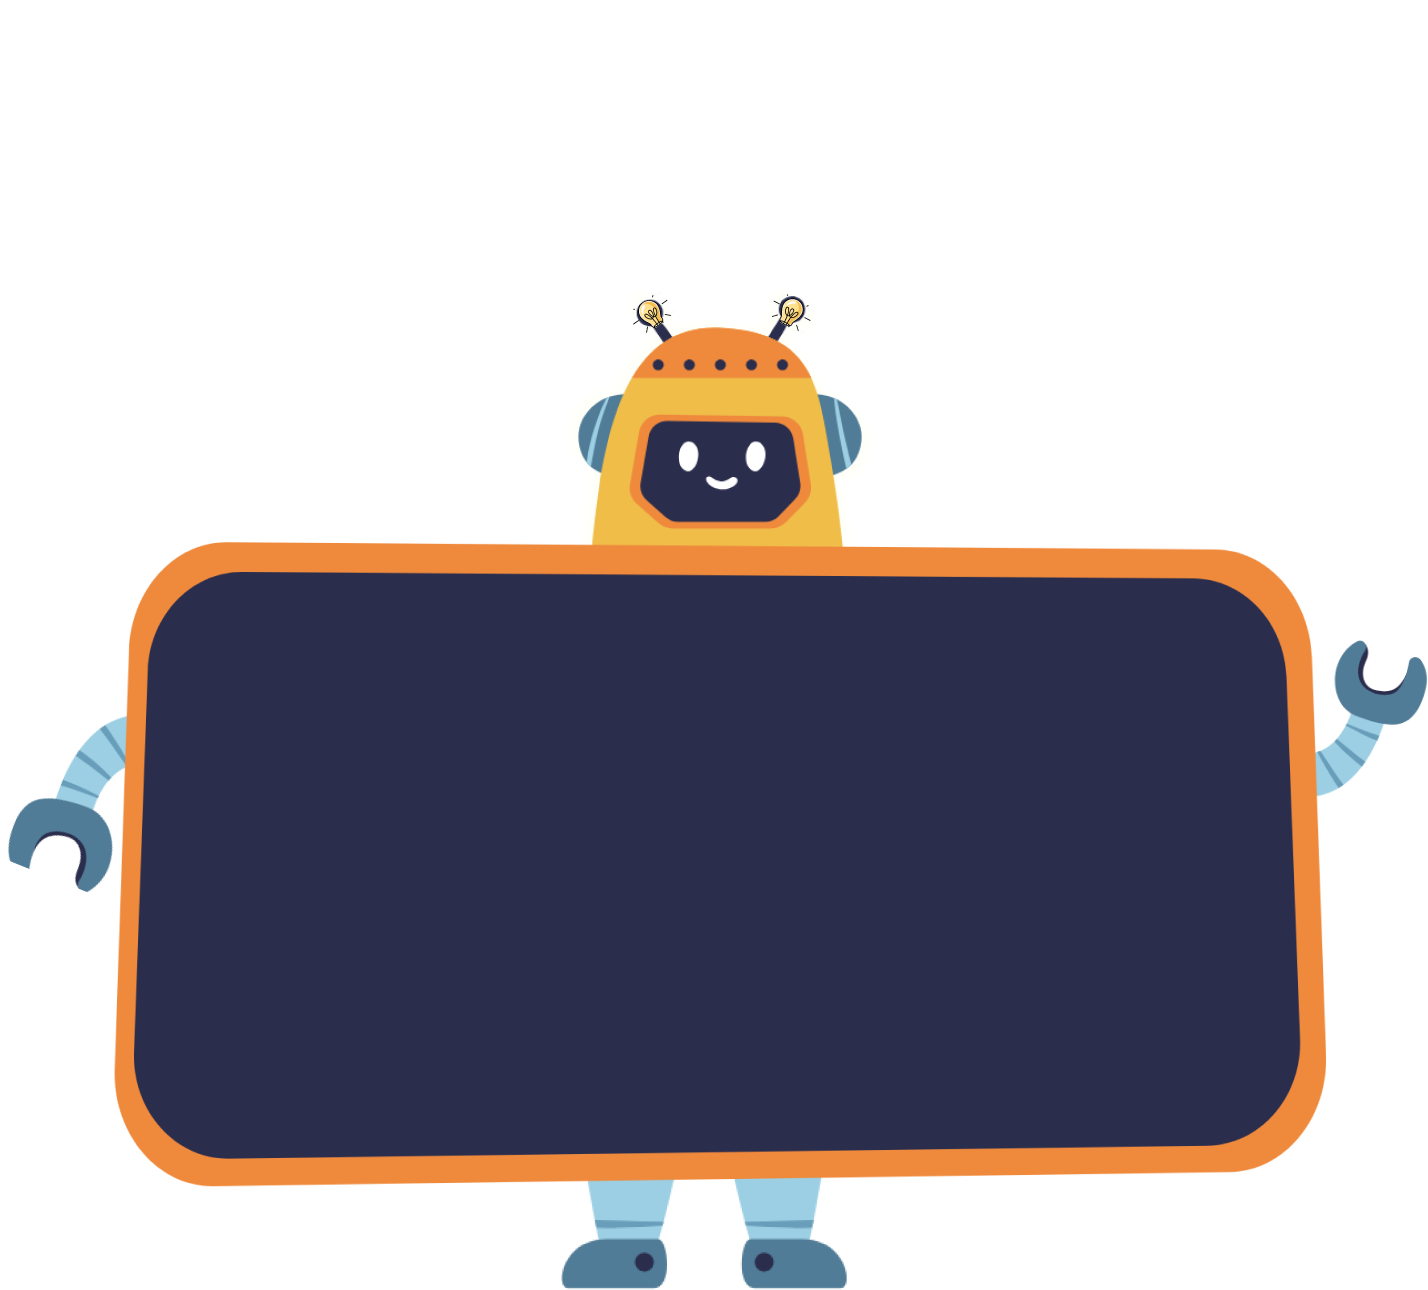
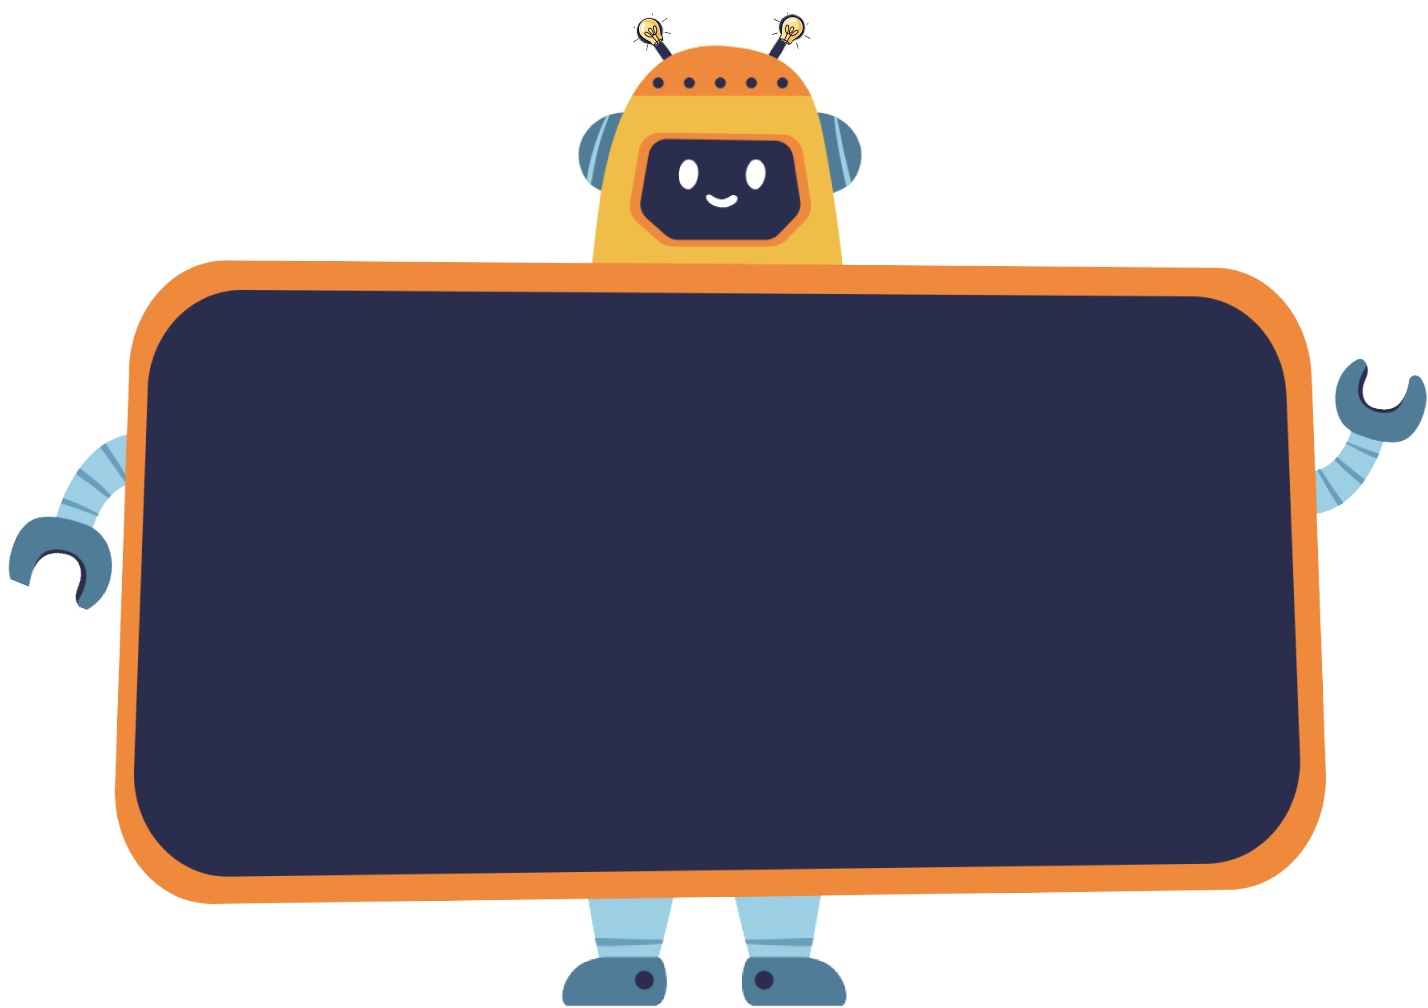
feat: Chatbot funcionando Fix: funções do langflow para trazer a resposta do bot Style: stilizando chat

Changed region(s): [[0.0, 0.0, 1.0, 0.7073], [0.0616, 0.7996, 0.9552, 1.0]]

diff --git a/TCC/src/pages/Chatbot/chat.js b/TCC/src/pages/Chatbot/chat.js
@@ -4,11 +4,53 @@ import Lampada from './elements/lampada.png'
 import Robochat from './elements/robozinho.png'
 import { useEffect, useState } from 'react'
 import RobochatLamp from './elements/Robô.png'
+import { RespostaChat } from '../../services/apichatbot'
+
 
 
 export default function Chatbot(){
 
     const [darkMode,setDarkMode] = useState(false)
+    const [inputMessage, setInputMessage] = useState('')
+    const [chatMessages, setChatMessages] = useState([])
+    const refresh = [
+      <svg xmlns="http://www.w3.org/2000/svg" width="16" height="16" fill="currentColor" class="bi bi-arrow-clockwise" viewBox="0 0 16 16">
+        <path fill-rule="evenodd" d="M8 3a5 5 0 1 0 4.546 2.914.5.5 0 0 1 .908-.417A6 6 0 1 1 8 2z"/>
+        <path d="M8 4.466V.534a.25.25 0 0 1 .41-.192l2.36 1.966c.12.1.12.284 0 .384L8.41 4.658A.25.25 0 0 1 8 4.466"/>
+      </svg>
+    ]
+    
+
+    const InteracaoChat = async () => {
+        if (!inputMessage.trim()) {
+            console.log('Entrada vazia')
+            return "Digite algo para o chat-bot ler!"
+        }
+
+        console.log("Mensagem Usuario: " + inputMessage)
+
+        const newMessage = { sender:'user', message: inputMessage}
+        setChatMessages([...chatMessages, newMessage])
+
+        try{
+            const data = await RespostaChat(inputMessage)
+            console.log("Mensagem Chatbot: ", data)
+            const MensagemBot = data.outputs[0].outputs[0].artifacts.message || 'Desculpe, não entendi sua pergunta. Tente novamente'
+            const HistoricoChat = { sender:'chatbot', message: MensagemBot}
+            setChatMessages((prevMessages) => [...prevMessages, HistoricoChat])
+        } catch(err){
+            console.error('Erro na resposta da API: ', err)
+            console.log(err)
+            const MensagemErro = {sender:'chatbot', message: 'Erro ao se comunicar com o servidor Langflow'}
+            setChatMessages((prevMessages) => [...prevMessages, MensagemErro])
+        }
+
+        setInputMessage('')
+    }
+
+    const LimparChat = () =>{
+        setChatMessages([])
+    }
 
     useEffect(() =>{
         const dark = document.querySelector('body');
@@ -56,8 +98,33 @@ export default function Chatbot(){
                         </div>
                 </div>
 
-                <div className='Chatbot'>{/* ROBOZINHO COM CHATBOT NA BARRIGA */}
-                    {darkMode ? <img src={RobochatLamp} alt='robochat' id='robochatlamp' width={1400} />   :  <img src={Robochat} alt='robochat' id='robochat' width={1400} />  }
+                <div className='Chatbot' id='CorpoChat' style={{
+                    backgroundImage: `url(${darkMode ? RobochatLamp : Robochat})`,
+                    backgroundRepeat: 'no-repeat', 
+                    backgroundPosition: 'center',
+                    backgroundSize: 'contain',
+                }}
+                     >
+                    <div className='ChatBox'>
+                        <div className='chat-messages'>
+                            <button onClick={LimparChat} title='Limpar Chat' className='botao-limpar'>{refresh}</button>
+                            {chatMessages.map((msg, index) => (
+                                <div key={index} className={msg.sender === 'chatbot' ? 'bot-message' : 'user-message'} >
+                                    {msg.message}
+                                </div>
+                            ))}
+                        </div>
+                        <div className='input-container'>    
+                            <input
+                                type="text"
+                                value={inputMessage}
+                                onChange={(e) => setInputMessage(e.target.value)}
+                                placeholder="Digite sua mensagem"
+                                className='input-chat'
+                            />
+                            <button className='botao-enviar' onClick={InteracaoChat}>Enviar</button>
+                        </div>
+                    </div>
                 </div>
             </div>
     

diff --git a/TCC/src/pages/Chatbot/chat.css b/TCC/src/pages/Chatbot/chat.css
@@ -87,3 +87,118 @@ body.dark-mode .sobreChat{ /* PARA AFETAR O BLOCO DENTRO DA LINHA NO DARKMODE */
     margin-top: 3vh;
     width: 48vw;
 }
+
+.Chatbot{
+    margin: auto;
+    max-width: 90vw;
+    min-height: 120vh;
+    z-index: 0;
+    position: relative;
+    display: flex;
+    align-items: center;
+}
+
+
+.ChatBox{
+    width: 60vw;
+    padding: 10px;
+    display: flex;
+    flex-direction: column;
+    height: auto;
+    z-index: 10;
+    position:static;
+    margin: auto;
+    margin-top: 18%;
+}
+
+.input-container{
+    display: flex;
+}
+
+
+.chat-messages{
+    display: flex;
+    flex-direction: column;
+    min-width: none;
+    max-width: 100%;
+    min-height: 61vh;
+    max-height: 61vh;
+    overflow-y: auto;
+}
+/* Estiliza a barra de rolagem */
+::-webkit-scrollbar {
+    width: 10px; /* Largura da barra de rolagem */
+}
+
+/* Estiliza a parte de fundo da barra de rolagem */
+::-webkit-scrollbar-track {
+    background: transparent; /* Cor de fundo */
+}
+
+/* Estiliza o "polegar", que é a parte móvel da barra */
+::-webkit-scrollbar-thumb {
+    background-color: #FFCA34; 
+    border-radius: 10px; 
+    height: 10px;
+}
+
+/* Estiliza o polegar quando o mouse passa sobre ele */
+::-webkit-scrollbar-thumb:hover {
+    background-color: #555; /* Cor ao passar o mouse */
+}
+
+
+
+.user-message{
+    align-self: flex-start;
+    text-align: left;
+    margin: 20px;
+    border: solid 1px;
+    border-radius: 30px;
+    padding: 10px;
+    max-width: fit-content;
+}
+
+
+.bot-message{
+    align-self: flex-end;
+    right: 0;
+    width: 70%;
+    text-align: right;
+    border: solid 1px;
+    border-radius: 30px;
+    padding: 20px;
+    color: #FFCA34;
+}
+
+.botao-limpar{
+    width: 10px;
+    opacity: 0.6;
+    margin: 5px;
+    padding: 5px;
+    border: none;
+    background: transparent;
+    color: blueviolet;
+
+}
+
+
+.input-chat{
+    display: flex;
+    width: 90%;
+    background-color: transparent;
+    border-radius: 30px;
+    padding: 6px;
+    color: white;
+    margin-left: 1vw;
+}
+
+.botao-enviar{
+    margin-left: 10px;
+    padding: 5px;
+    background-color: blueviolet;
+    color: white;
+    border: none;
+    font-weight: bolder;
+    border-radius: 30px;
+}

diff --git a/TCC/src/services/apichatbot.js b/TCC/src/services/apichatbot.js
@@ -1,0 +1,23 @@
+
+export async function RespostaChat(inputMessage) {
+    try{
+        let response = await fetch('http://localhost:7860/api/v1/run/3a27293c-12a6-4715-8a4c-120de30ca8fa?stream=false',{
+            method: 'POST',
+            headers: {
+                'Content-Type': 'application/json'
+            },
+            body: JSON.stringify({ input_value: inputMessage })
+        })
+
+        if(!response.ok){
+            throw new Error(`Erro na resposta da API status: ${response.status} - ${response.statusText}`)
+        }
+
+        const data = await response.json()
+        return data //Retorna a resposta em JSON
+    }catch(err){
+        console.log(err)
+        return `Ocorreu um erro, atualize a pagina e tente novamente! ${err}`
+    }
+
+}

diff --git a/TCC/src/componentes/navbar/Header.js b/TCC/src/componentes/navbar/Header.js
@@ -48,7 +48,6 @@ return(
                 <div class="collapse navbar-collapse" id="navbarNav">
                 <ul class="navbar-nav">
                     <div className='center'>
-                        
                         <li class="nav-item">
                         <a class="nav-link" href='/chatbot'><b>Chat</b></a>
                         </li>
